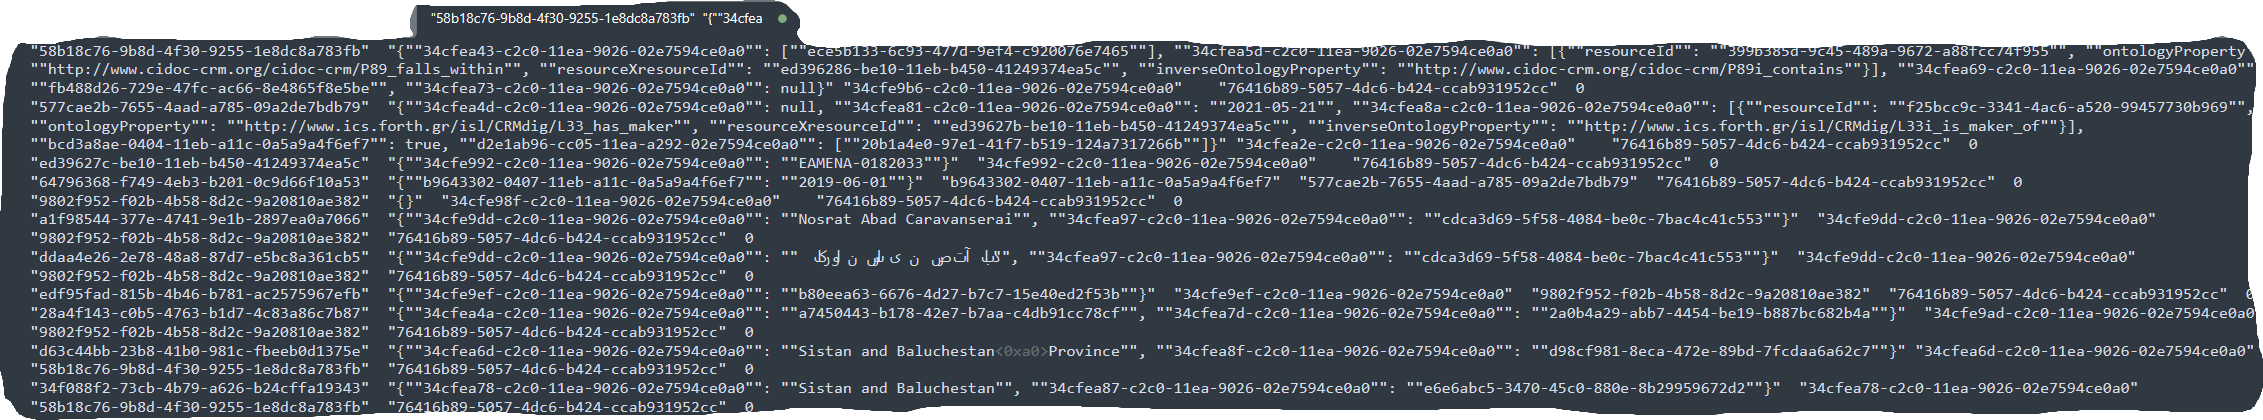
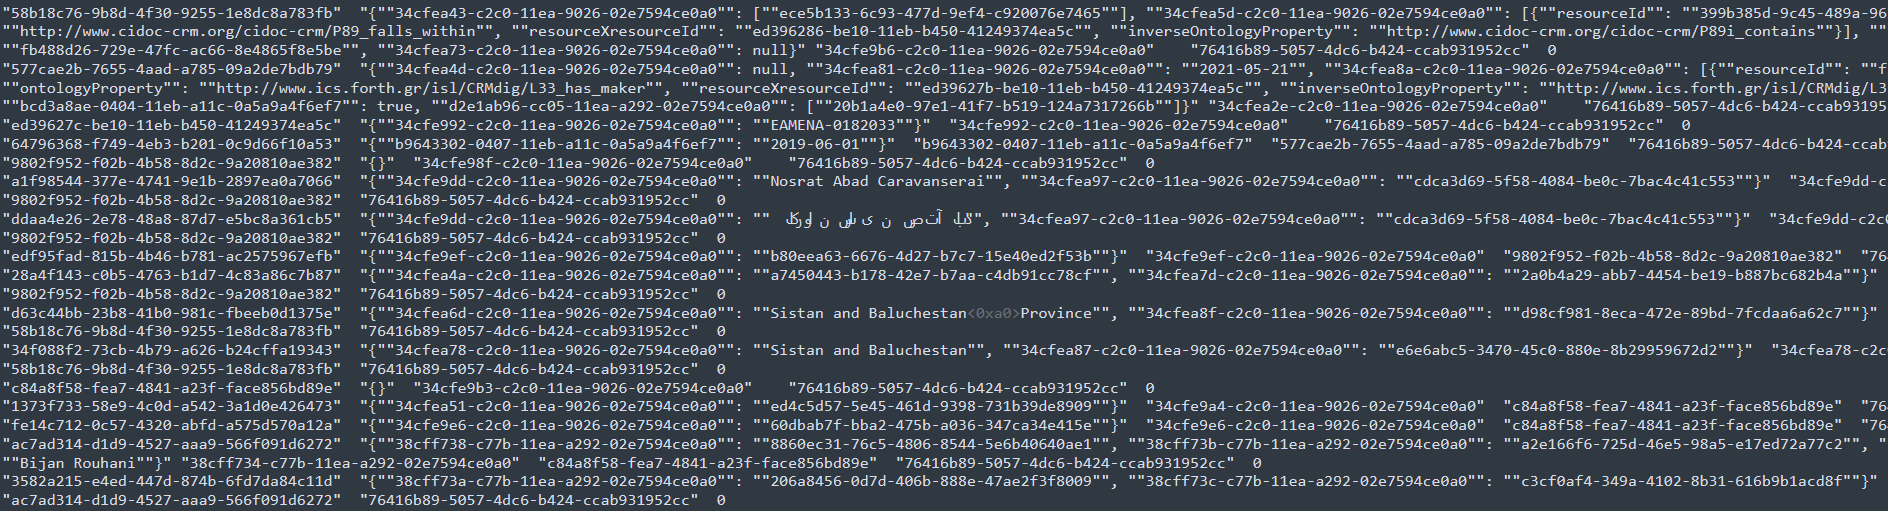
documentation search in Pg

diff --git a/training/postgresql/README.md b/training/postgresql/README.md
@@ -41,13 +41,20 @@ Then copy all these data by clicking on the top left corner of the Data Output (
 Paste all this data in a text editor, for example Sublime:
 
 <p align="center">
-  <img alt="img-name" src="../../www/texteditor-hp-data-all.png" width="700">
+  <img alt="img-name" src="../../www/texteditor-hp-data-all.png" width="1000">
   <br>
     <em>paste all the data of `EAMENA-0182033` to a text editor</em>
 </p>
 
 We will take advantage of the UUID; by definition they are unique. So, if we search for one in particular, we will be sure we get the right one. 
 
+<p align="center">
+  <img alt="img-name" src="../../www/texteditor-hp-data-all-find.png" width="1000">
+  <br>
+    <em>search for `a2e166f6-725d-46e5-98a5-e17ed72a77c2` in the text editor</em>
+</p>
+
+The `a2e166f6-725d-46e5-98a5-e17ed72a77c2` value has been found, let's copy the key of this value (`38cff73b-c77b-11ea-a292-02e7594ce0a0`) here below in yellow and light yellow
 
 ## Issues
 
@@ -60,6 +67,18 @@ There are 3 different concepts with exactly the same value (`Pre-Dynastic (Egypt
   <br>
     <em>screenshot of the dedicated <a href="https://community.archesproject.org/t/duplicated-values-find-and-replace-bis/1811?u=zoometh">Arches forum's thread</a> </em>
 </p>
+
+In the 
+
+<p align="center">
+  <img alt="img-name" src="../../www/postgres-issue-1-duplicates.png" width="700">
+  <br>
+    <em>screenshot of the dedicated <a href="https://community.archesproject.org/t/duplicated-values-find-and-replace-bis/1811?u=zoometh">Arches forum's thread</a> </em>
+</p>
+
+
+
+
 
 #### Solution
 
